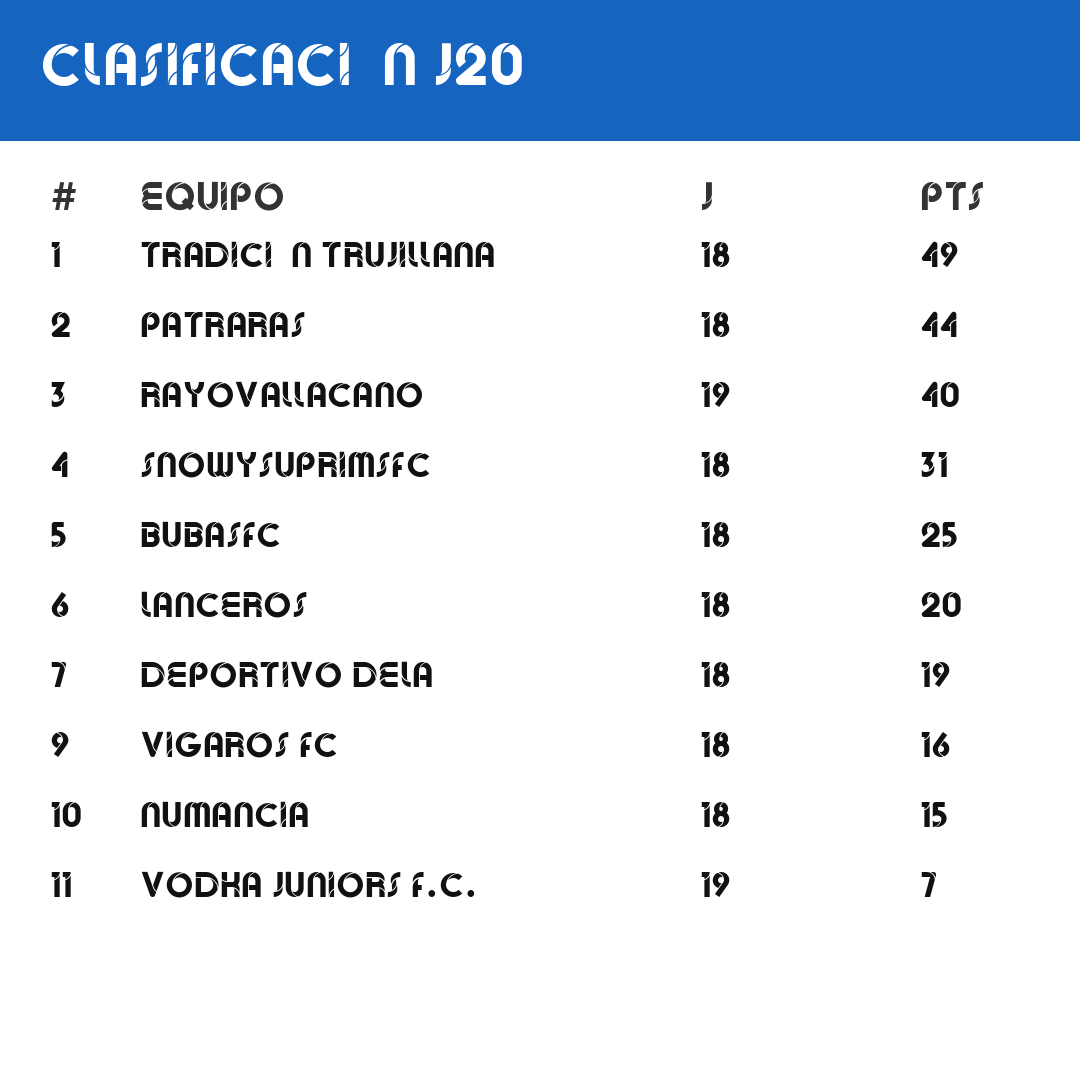
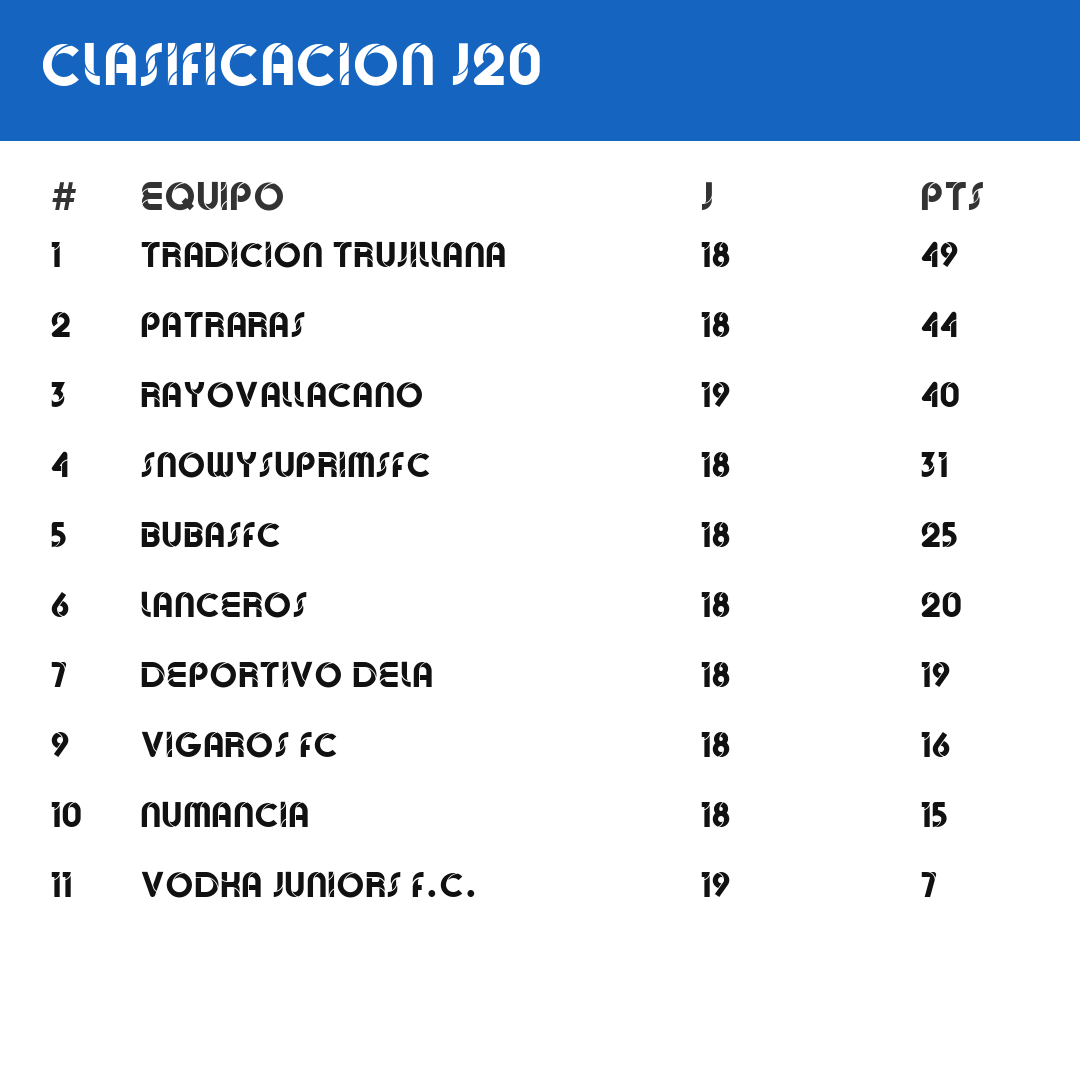
[FIX] linea del equipo

Changed region(s): [[0.3056, 0.0306, 0.5194, 0.0917], [0.2444, 0.2139, 0.4889, 0.2444]]

diff --git a/parser.py b/parser.py
@@ -37,25 +37,26 @@ def parse_clasificacion_text(texto):
         if not line or re.search(r'Clasificaci|Equipo|Pts|Fase|Grupo|MuniM@d', line, re.I):
             continue
 
-        parts = line.split()
-        if not parts[0].isdigit():
+        match = re.match(r'^\D*(\d+)\s+(.+)$', line)
+        if not match:
             continue
 
-        pos = int(parts[0])
-        rest_tokens = parts[1:]
-        if not rest_tokens:
+        pos = int(match.group(1))
+        rest = match.group(2).strip()
+        tokens = rest.split()
+        if not tokens:
             continue
 
         trailing = []
-        i = len(rest_tokens) - 1
-        while i >= 0 and rest_tokens[i].isdigit():
-            trailing.insert(0, rest_tokens[i])
+        i = len(tokens) - 1
+        while i >= 0 and tokens[i].isdigit():
+            trailing.insert(0, tokens[i])
             i -= 1
 
         if len(trailing) < 2:
             continue
 
-        equipo = ' '.join(rest_tokens[: i + 1]).strip()
+        equipo = ' '.join(tokens[: i + 1]).strip()
         equipo = re.sub(r'\s*@\s*$', '', equipo).strip()
         if not equipo:
             continue
